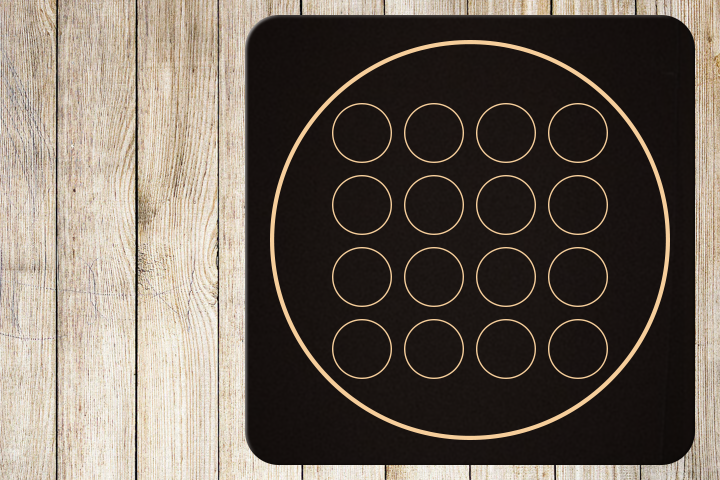
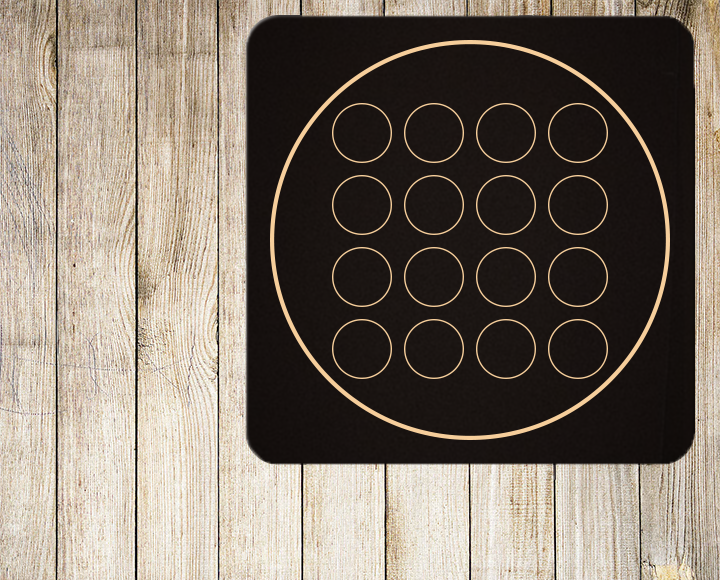
+ All the options at the bottom of the game

diff --git a/include/GameEngine.h b/include/GameEngine.h
@@ -11,7 +11,7 @@
 #include "Player.h"
 #include "Shape.h"
 #include "Config.h"
-
+#include "Button.h"
 
 class GameEngine
 {
@@ -30,6 +30,10 @@ private:
 
     // graphics
     sf::Texture background;              /** The background image sprite. */
+    sf::Text text;                       /** The text of the game. */
+    sf::Font font;                       /** The font of the text. */
+    Button* quitButton;                  /** The button to quit. */
+    sf::Texture* shapeTexture = nullptr; /** The texture of the shape. */
 
 public:
     /**

diff --git a/include/Config.h b/include/Config.h
@@ -10,7 +10,7 @@ using namespace std;
 */
 
 const int WINDOW_WIDTH = 720;
-const int WINDOW_HEIGHT = 480;
+const int WINDOW_HEIGHT = 580;
 
 const int FPS = 30;
 
